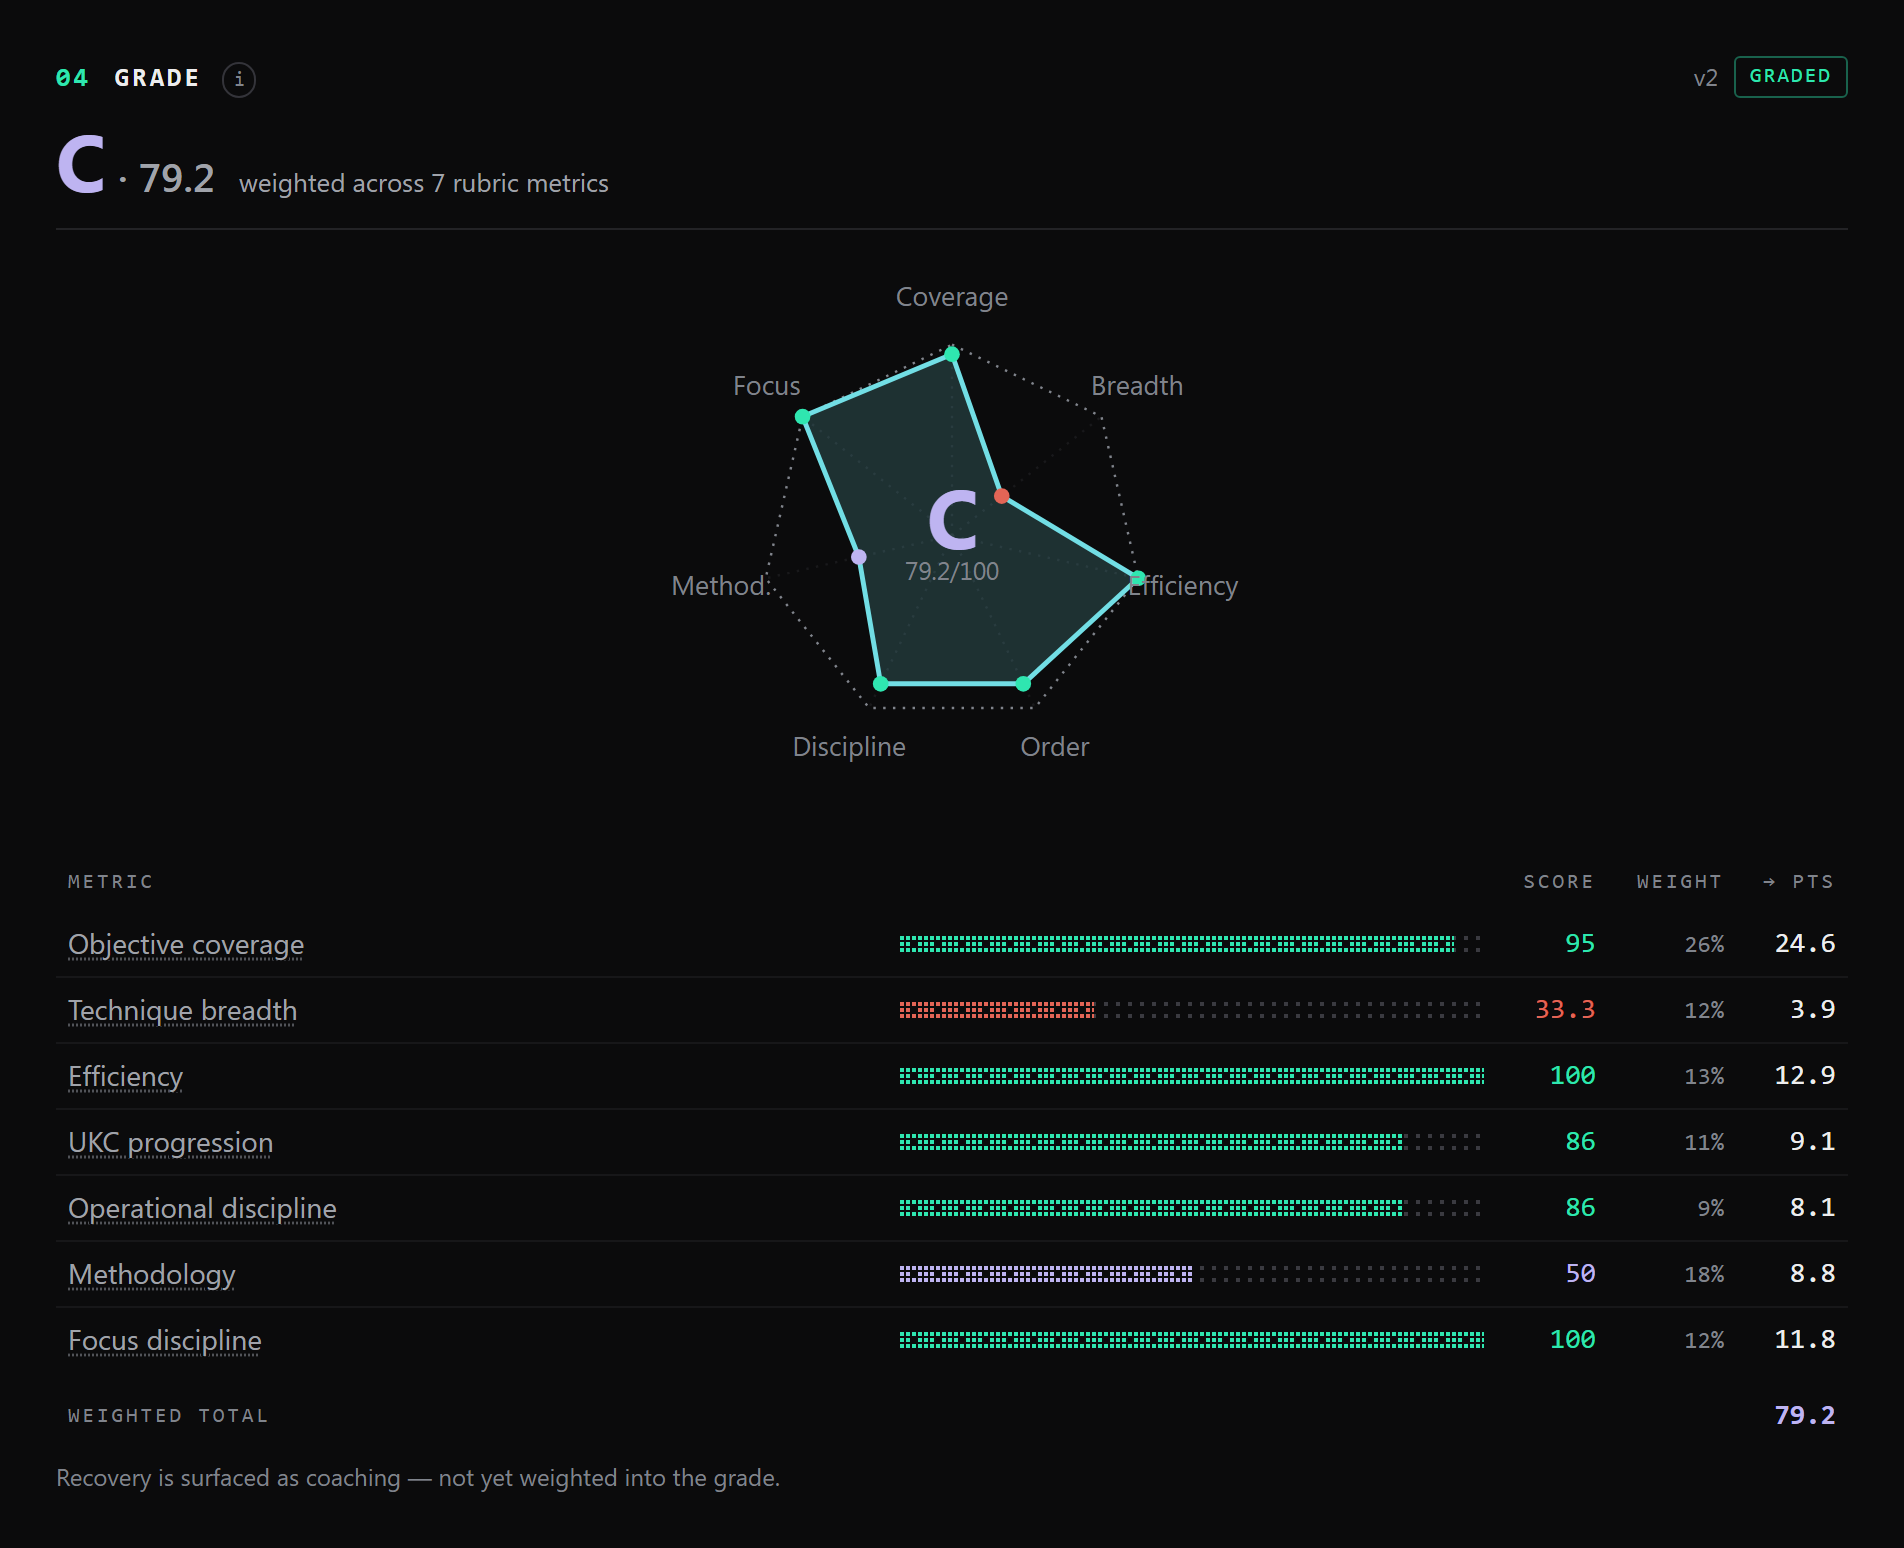
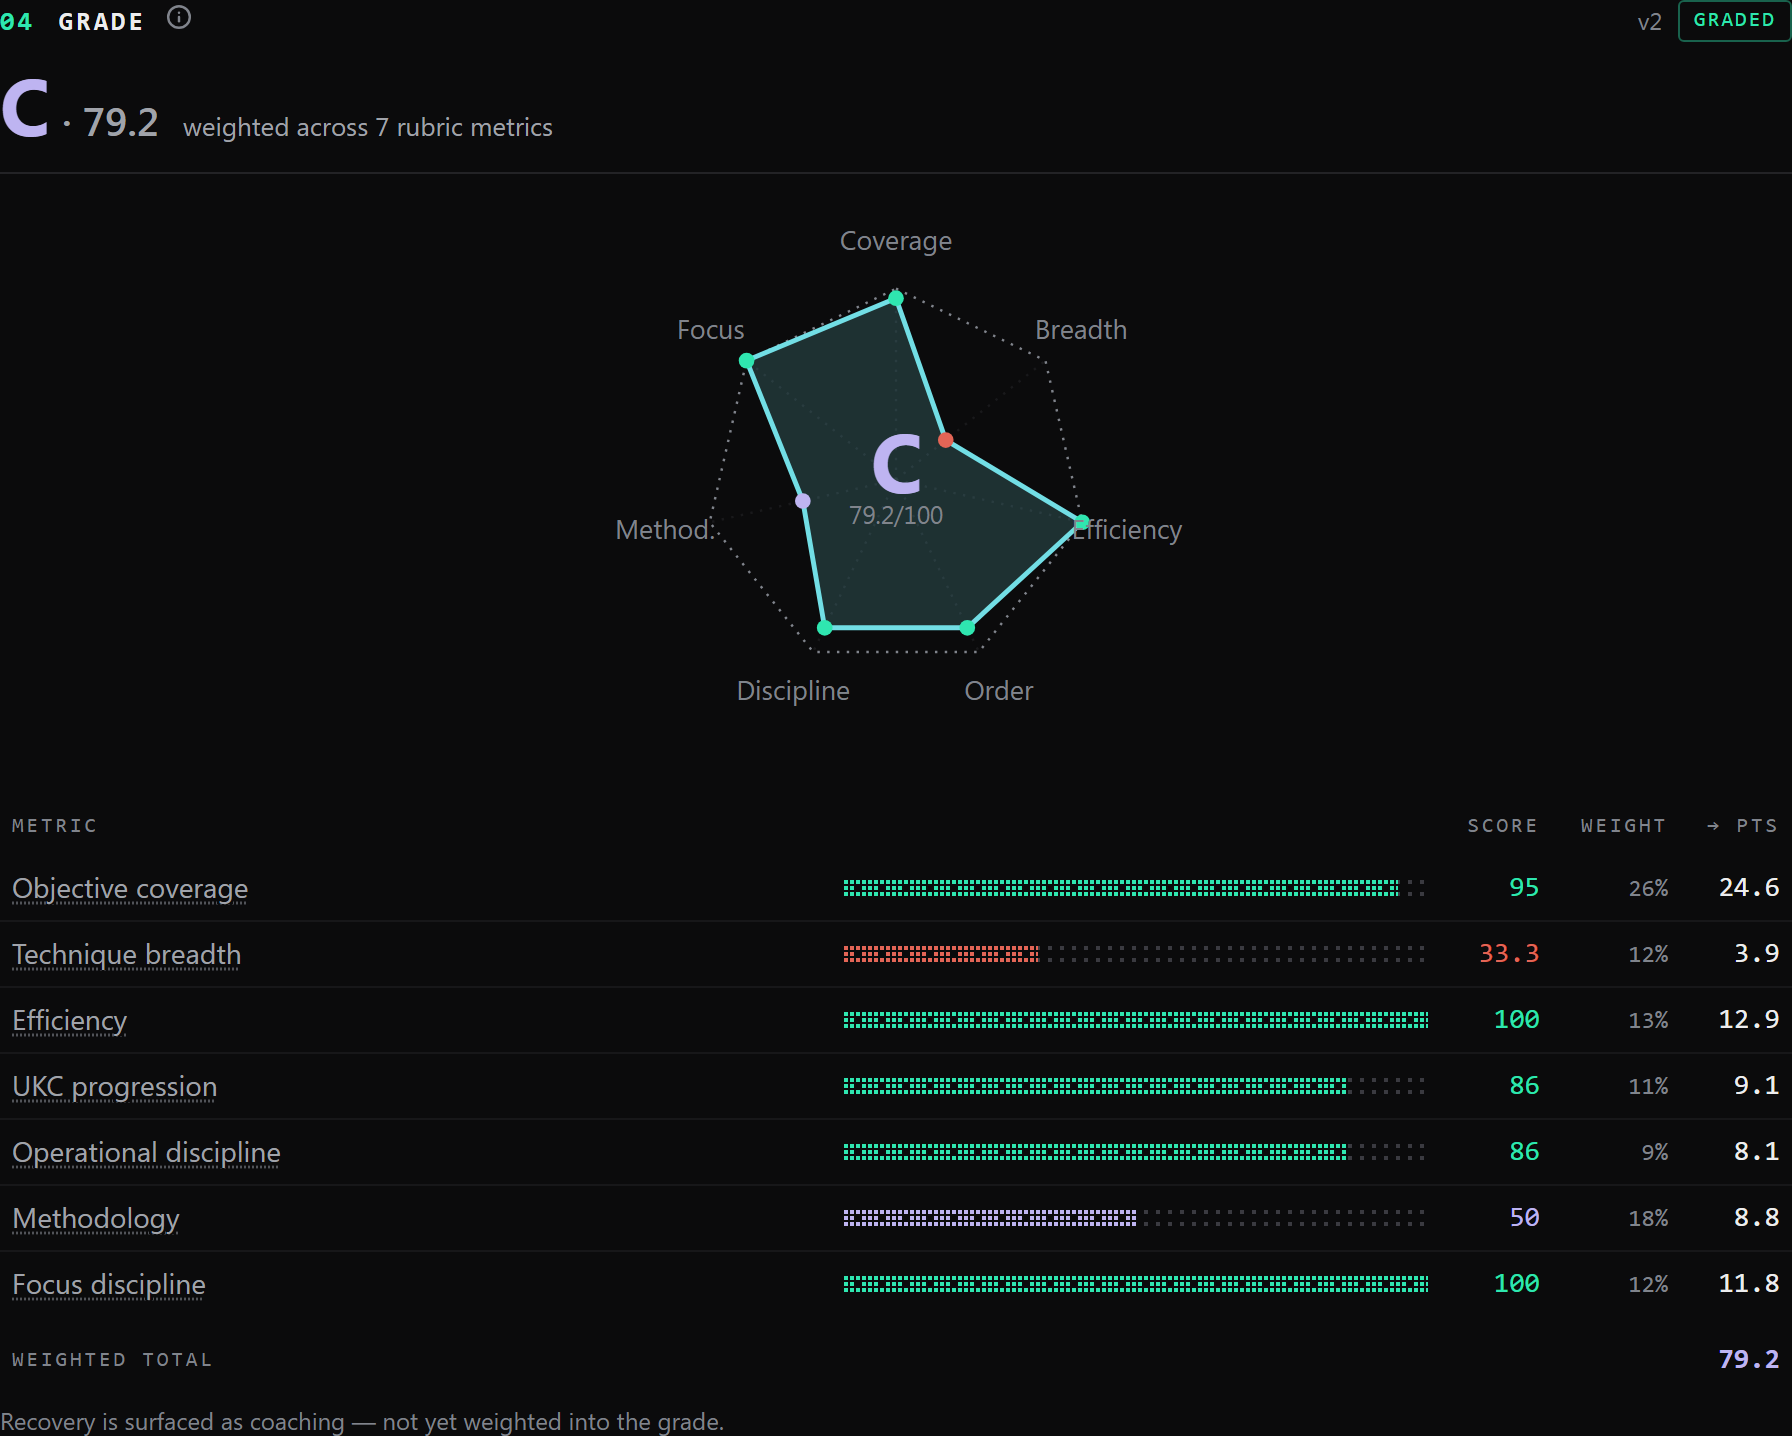
README: visual tour of the debrief, report and live widget
Fresh captures from the current app (verdict, one lesson, rubric, report) and the
widget in a tmux split, plus a link to the sample report PDF.

diff --git a/README.md b/README.md
@@ -14,6 +14,20 @@ Record your run against any box, then get a graded debrief: what you achieved, w
   <img src="docs/screenshots/live-ops.gif" alt="Live Ops: the run building in real time" width="820">
 </p>
 
+<table>
+  <tr>
+    <td width="50%"><img src="docs/screenshots/verdict.png" alt="The verdict: machine, stealth score and letter grade"><br><b>The verdict</b> — one grade for the whole run, with stealth scored alongside.</td>
+    <td width="50%"><img src="docs/screenshots/one-lesson.png" alt="The one lesson, deep-linked to the step"><br><b>The one lesson</b> — the single highest-value fix, linked to the exact step it happened.</td>
+  </tr>
+  <tr>
+    <td width="50%"><img src="docs/screenshots/grade.png" alt="Explainable rubric: radar plus seven weighted metrics"><br><b>A grade you can defend</b> — seven weighted metrics across ATT&amp;CK, the Kill Chain and CWE.</td>
+    <td width="50%"><img src="docs/screenshots/report.png" alt="OSCP/CPTS-style report with executive summary"><br><b>The report writes itself</b> — an OSCP/CPTS-style write-up with a CISO summary, exported as Markdown or PDF. <a href="https://watcher-site-six.vercel.app/assets/watcher-sample-report-abducted.pdf">Sample PDF</a>.</td>
+  </tr>
+  <tr>
+    <td colspan="2"><img src="docs/screenshots/widget.png" alt="The live widget in a tmux split beside your shell"><br><b>A coach beside your shell</b> — the live widget mirrors your run in a tmux pane and flags loose ends. Hints are opt-in and cost you independence.</td>
+  </tr>
+</table>
+
 ---
 
 The Watcher records the commands you run against a target — on Hack The Box, TryHackMe, OffSec, Immersive Labs, or a local CTF — and turns the run into a graded debrief. Every run is read through three frameworks at once: **MITRE ATT&CK** (*what* you did), the **Unified Kill Chain** (the *order*, so backtracking is measurable), and **CWE** (the *weakness class*, so SQLi and XXE count as two skills). Everything runs on your machine — no account, no telemetry, no cloud.
